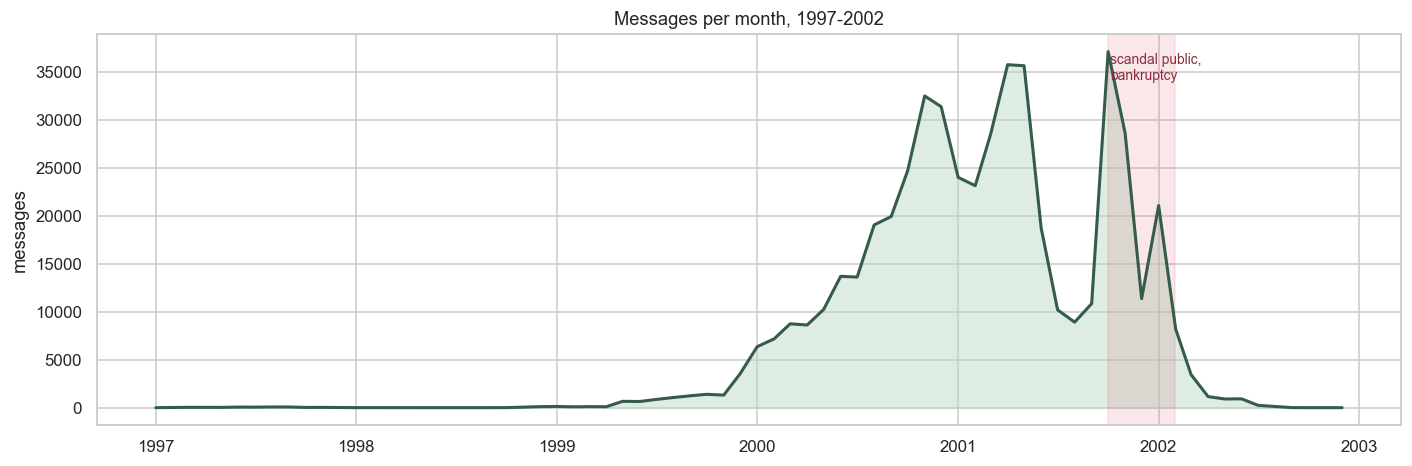
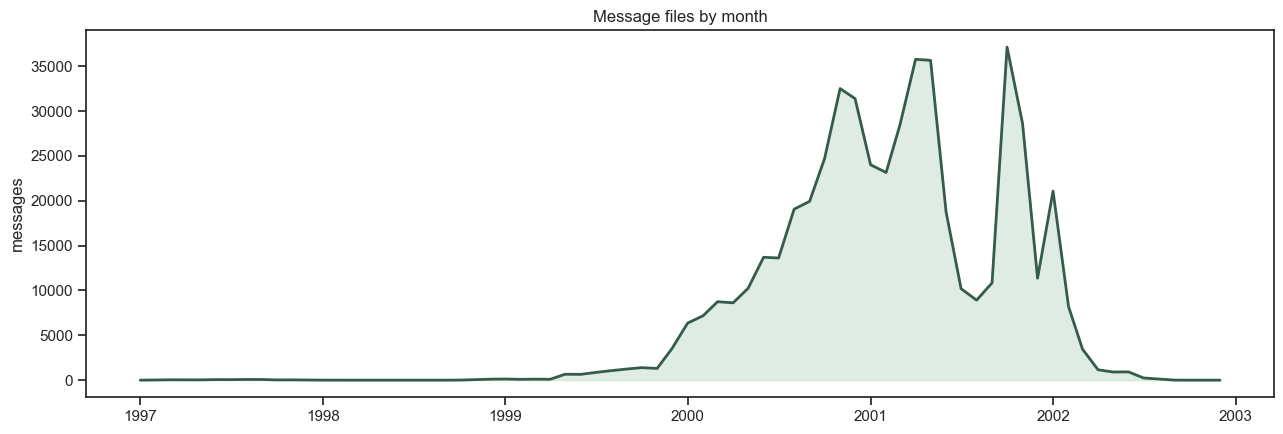
refactor: renumber eda folders by session, add eda/ week-1 placeholder
The exploratory folders were off by one from the session they belong to.
Shift them up so the number matches the week: eda -> eda-2 (original
notebook that builds the cache), eda-2 -> eda-3 (first-week report),
eda-3 -> eda-4 (deeper week-2 review work). The shared parquet cache now
lives in eda-2/cache, so the in-notebook find_root and CACHE/PLOTS paths
are updated to match; verified each notebook still resolves the cache and
its own plots directory.

eda/ is now a placeholder for week one (team matching), with a short
README pointing at eda-2 as the real starting point. README and WHOS_WHO
follow the new numbering, and the May 27 / Jun 3 schedule rows are ticked.

diff --git a/README.md b/README.md
@@ -15,44 +15,50 @@ After downloading `enron_mail_20150507.tar.gz` into the repo root:
 ```
 tar -xzf enron_mail_20150507.tar.gz
 python inspect_enron.py
-jupyter lab eda/enron_eda.ipynb
+jupyter lab eda-2/enron_eda.ipynb
 ```
 
 ## Layout
 
-The exploratory analysis lives in `eda/enron_eda.ipynb`. It builds cached parquet
-tables under `eda/cache/` and writes plots to `eda/plots/`. The script
-`inspect_enron.py` is a separate sanity pass over the unpacked maildir; it prints
-message counts, threading-header coverage, declared charsets, the largest
-folders, and frequent sender domains.
+The folders are numbered by the session they belong to. `eda/` is week one
+(team matching and dataset selection); there is no analysis there.
 
-`eda-2/enron_eda_report.ipynb` is the written first-week report. It reads top to
+`eda-2/enron_eda.ipynb` is the original exploratory notebook. It builds the
+cached parquet tables under `eda-2/cache/` and writes plots to `eda-2/plots/`.
+Every later report reads from that same cache, so it has to run first. The
+script `inspect_enron.py` is a separate sanity pass over the unpacked maildir;
+it prints message counts, threading-header coverage, declared charsets, the
+largest folders, and frequent sender domains.
+
+`eda-3/enron_eda_report.ipynb` is the written first-week report. It reads top to
 bottom, pairing each plot with what it shows, and covers the variables, the main
 distributions, and a closer look at deleted mail. It reuses the cached tables in
-`eda/cache/`, so it runs without the 2.6 GB maildir and writes its figures to
-`eda-2/plots/`:
+`eda-2/cache/`, so it runs without the 2.6 GB maildir and writes its figures to
+`eda-3/plots/`:
 
 ```
 uv run --with jupyter --with pandas --with pyarrow --with matplotlib \
-  --with seaborn jupyter lab eda-2/enron_eda_report.ipynb
+  --with seaborn jupyter lab eda-3/enron_eda_report.ipynb
 ```
 
-`eda-3/enron_eda_deeper.ipynb` extends the first-week report along the lines
+`eda-4/enron_eda_deeper.ipynb` extends the first-week report along the lines
 flagged in the week-2 review: year-by-year activity rhythm, a readable
 sender-domain plot, the round-trip and social-graph structure (with a
 BCC-is-a-copy-of-CC data caveat), a content drill on the `california` and
 `ees` threads, per-mailbox deletion statistics, and a per-mailbox feature
-correlation. Figures land in `eda-3/plots/`:
+correlation. Figures land in `eda-4/plots/`:
 
 ```
 uv run --with jupyter --with pandas --with pyarrow --with matplotlib \
-  --with seaborn --with networkx jupyter lab eda-3/enron_eda_deeper.ipynb
+  --with seaborn --with networkx jupyter lab eda-4/enron_eda_deeper.ipynb
 ```
+
+`eda-5/` is the current session's work, in progress on the `eda-5` branch.
 
 `WHOS_WHO.md` is a short reference for the people who keep appearing in the
 notebooks: company shape, divisions, executive hierarchy, profiles for the
 named mailbox owners, and a collapse timeline. Worth a read before the
-network and content sections of `eda-3/`.
+network and content sections of `eda-4/`.
 
 ## Schedule
 
@@ -60,10 +66,10 @@ Intended SS26 schedule. Past sessions are ticked.
 
 | Done | Date    | Topic                                          | Done | Date    | Topic                  |
 |:----:|---------|------------------------------------------------|:----:|---------|------------------------|
-| [x]  | Apr 15  | Kick-off                                       | [ ]  | Jun 3   | Descriptive Mining 5   |
+| [x]  | Apr 15  | Kick-off                                       | [x]  | Jun 3   | Descriptive Mining 5   |
 | [x]  | Apr 22  | No class                                       | [ ]  | Jun 10  | Descriptive Mining 6 ? |
 | [x]  | Apr 29  | Data Set Presentation                          | [ ]  | Jun 17  | Predictive Mining 1    |
 | [x]  | May 6   | Data Set Selection / Group Formation / EDA 1   | [ ]  | Jun 24  | Predictive Mining 2    |
 | [x]  | May 13  | Descriptive Mining 2                           | [ ]  | Jul 1   | Predictive Mining 3    |
 | [x]  | May 20  | Descriptive Mining 3                           | [ ]  | Jul 8   | Final Presentation 1   |
-| [ ]  | May 27  | Descriptive Mining 4                           | [ ]  | Jul 15  | Final Presentation 2   |
+| [x]  | May 27  | Descriptive Mining 4                           | [ ]  | Jul 15  | Final Presentation 2   |

diff --git a/eda/README.md b/eda/README.md
@@ -1,0 +1,7 @@
+# eda — week 1: team matching
+
+First session. Group formation and dataset selection, no analysis yet.
+
+The actual exploratory work starts in `../eda-2/` (the notebook that builds
+the cached parquet tables every later report reads from). See the top-level
+`../README.md` for the folder-by-folder walkthrough.

diff --git a/WHOS_WHO.md b/WHOS_WHO.md
@@ -143,7 +143,7 @@ SEC filings and the Wikipedia entries listed at the bottom of this page.
 ## Named-mailbox profiles
 
 These are the people whose addresses, mailboxes, or words appear in the
-plots in `eda/`, `eda-2/`, and especially `eda-3/`. Alphabetical by
+plots in `eda-2/`, `eda-3/`, and especially `eda-4/`. Alphabetical by
 last name. Mailbox handle in backticks where their mailbox is one of
 the 150 in the corpus.
 